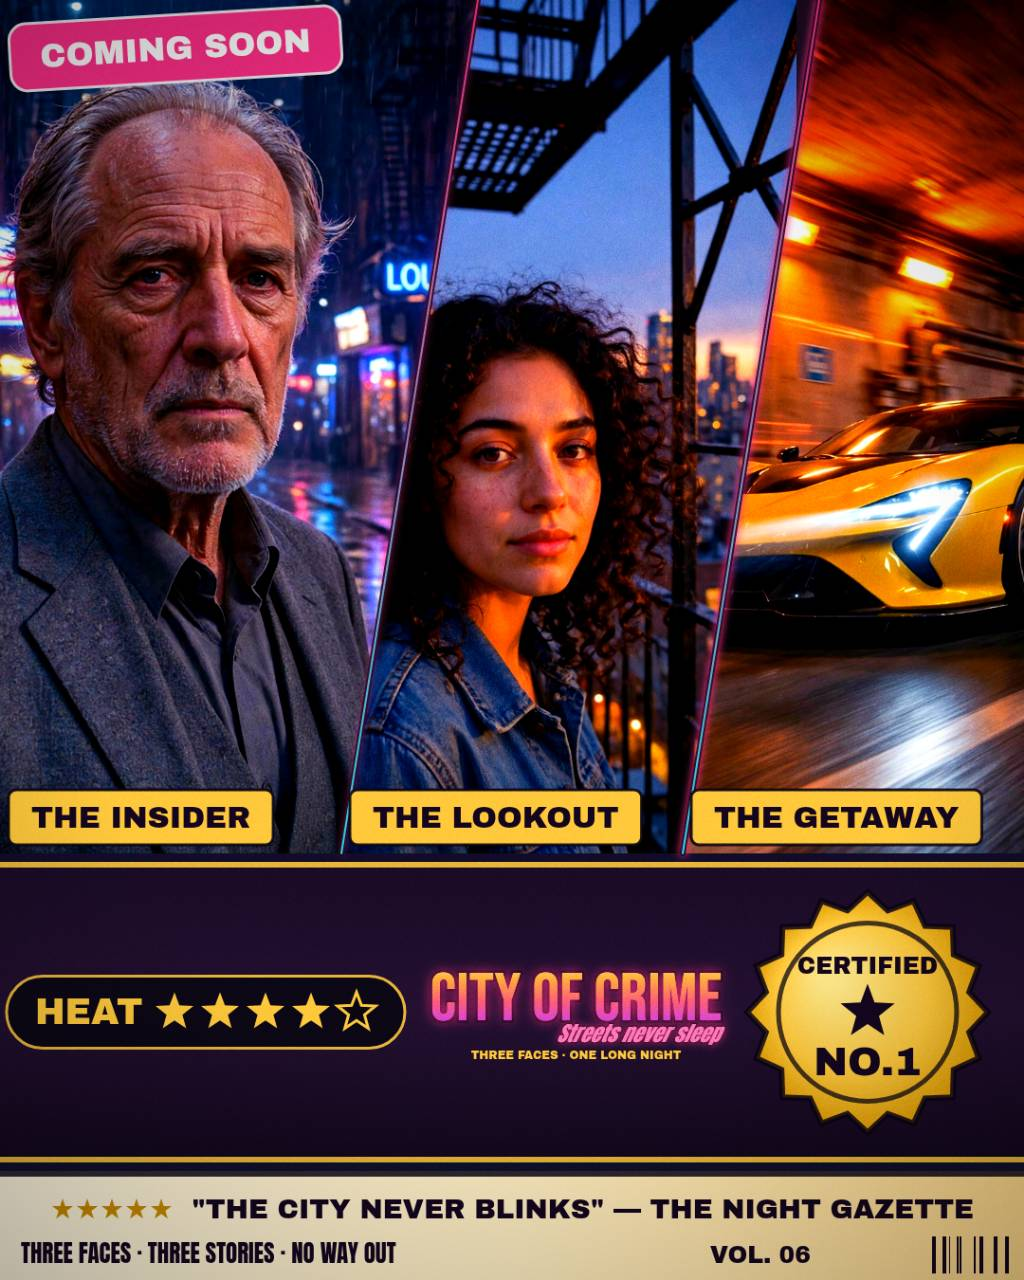
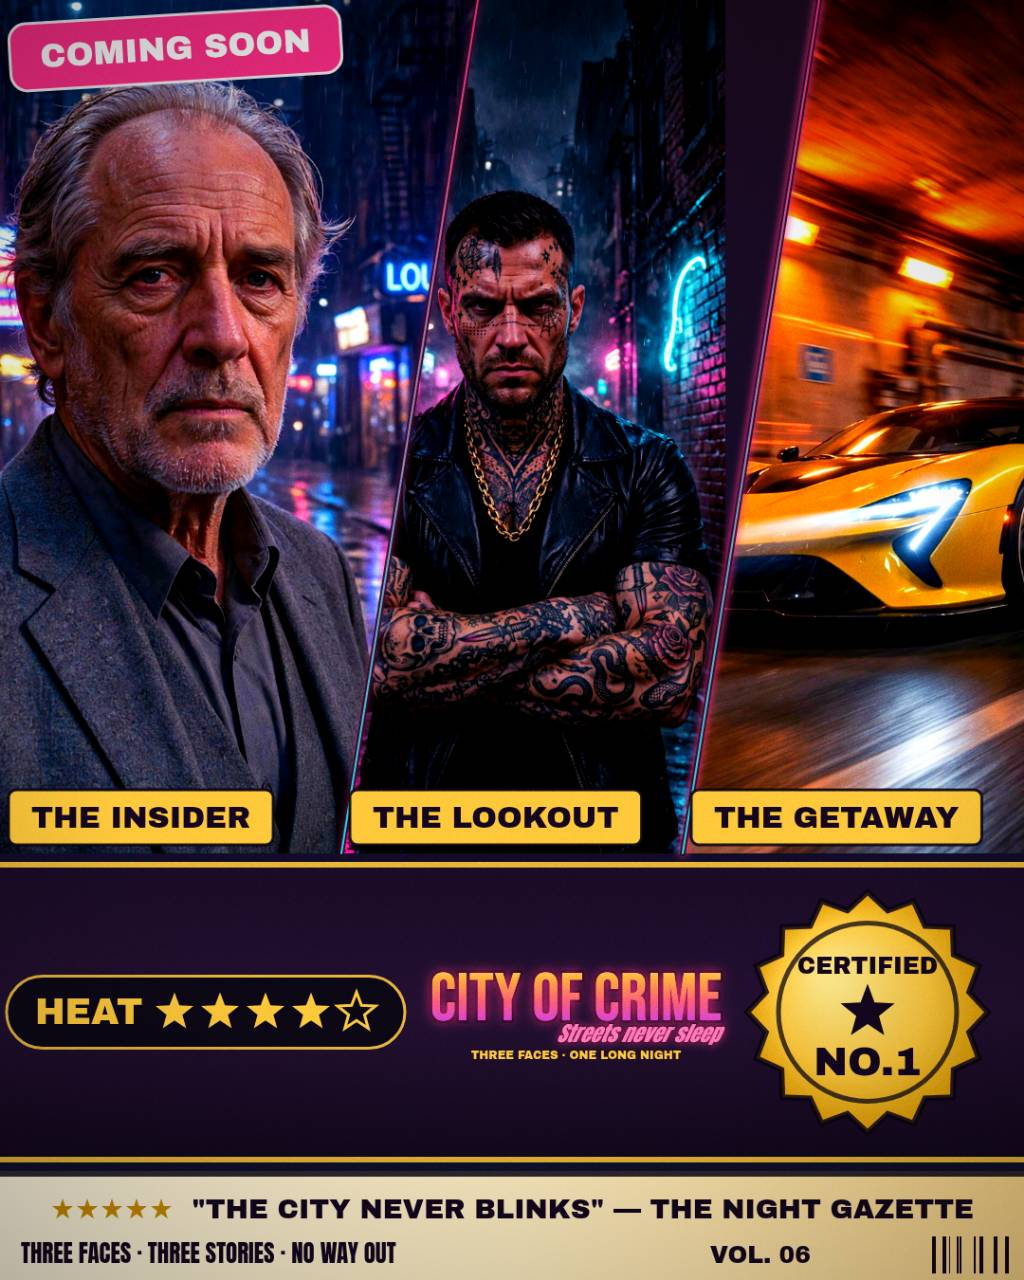
Rebuild r12: re-cast LOOKOUT as tattooed gangster, re-shoot AFTER DARK market + driver
CITY OF CRIME: THE LOOKOUT is now a menacing tattooed gangster man
(full sleeves, neck/face tattoos, leather jacket, gold chain, stern
stare in a rainy neon alley, face fully visible, pill low on jacket).
AFTER DARK: THE MARKET is now a high-energy neon boulevard car meet
(crowd, lowriders, confetti) and THE DRIVER is now a driver gripping
the wheel mid high-speed chase (neon streaks, face fully in frame) —
Sand called the r11 market/truck-woman panels 'terlalu lebay'.
Old keys dark-nightmarket/dark-truckwoman retired (files stay on disk,
unreferenced); new keys dark-street/dark-driver. VICE PURSUIT,
MIDNIGHT RUNNERS, editor UI, titles, HEAT 4/5 stars all unchanged.
All 4 screenshots re-rendered fresh in-session.

Changed region(s): [[0.3438, 0.0, 0.7812, 0.6875], [0.3438, 0.6562, 0.4688, 0.6875], [0.5, 0.6562, 0.5938, 0.6875]]

diff --git a/app/src/main.js b/app/src/main.js
@@ -295,12 +295,30 @@ export const SAMPLES = {
   'sunset-duo': { file: 'samples/media-generation-sunset-duo-0-7f9f1cb0-4aea-484d-91d5-b31bc29942f7.jpg', name: 'Sunset duo', label: 'Modern supercar + classic muscle car racing side by side at sunset' },
   // r11 — CITY OF CRIME (Diagonal trio)
   'crime-insider': { file: 'samples/media-generation-crime-insider-0-de10d04b-e4b4-4e49-9902-65951957155f.jpg', name: 'The insider', label: 'Rainy downtown alley at night — older man in a grey suit, neon bar signs, whole head in frame' },
-  'crime-lookout': { file: 'samples/media-generation-crime-lookout-0-e0d712e4-47b5-486c-81b0-6e588ddd9cb3.jpg', name: 'The lookout', label: 'Fire-escape balcony at dusk — young woman with dark curly hair, city skyline, whole head in frame' },
+  // r12 — THE LOOKOUT is re-cast: the r11 fire-escape lookout (young woman
+  // with curly hair) is replaced by a menacing tattooed gangster man —
+  // full tattoo sleeves, neck and face tattoos, leather jacket, gold
+  // chain, stern expression, dark neon alley in the rain. Portrait
+  // 1120×2240, face in the upper half with clear sky above the hair, so
+  // the whole head stays in frame and the THE LOOKOUT pill never covers
+  // it. The r11 file stays on disk, unreferenced.
+  'crime-lookout': { file: 'samples/media-generation-media-generation-crime-lookout-0-c1113d89-0c15-4907-9ca2-4c80dbdba162.webp', name: 'The lookout', label: 'Neon alley at night — tattooed gangster man, full sleeves, neck and face tattoos, leather jacket, gold chain, stern stare, whole face in frame' },
   'crime-tunnel': { file: 'samples/media-generation-crime-tunnel-0-dca6641c-b4a3-45a5-b95c-ec0acfb40b16.jpg', name: 'Tunnel chase', label: 'Yellow sports car speeding through a highway tunnel at night, motion blur' },
   // r11 — AFTER DARK (Hero + three)
   'dark-bluecoupe': { file: 'samples/media-generation-dark-bluecoupe-0-a4a5a0ea-2b42-404b-a8ba-e5cb69fe023f.jpg', name: 'Blue coupe', label: 'Deep blue coupe on a wet boulevard at night, palm silhouettes, neon reflections' },
-  'dark-nightmarket': { file: 'samples/media-generation-dark-nightmarket-0-982c22c9-49e1-484f-8486-56177e26d07a.jpg', name: 'Night market', label: 'Night market food stall — man grilling skewers, lanterns and neon' },
-  'dark-truckwoman': { file: 'samples/media-generation-dark-truckwoman-0-45807eeb-f347-4c0c-95dc-61d5a8760b91.jpg', name: 'Truck woman', label: 'Gas station at night — woman with short black hair in a leather jacket leaning on a vintage green pickup, whole head in frame' },
+  // r12 — AFTER DARK's two middle panels are re-shot: Sand called the r11
+  // night market and truck woman "terlalu lebay" (too over-the-top /
+  // stiff, posed), so both are replaced with live, exciting moments.
+  // THE MARKET is now a high-energy Vice City street party — a neon
+  // boulevard packed with a cheering crowd, lowriders and sports cars
+  // under pink neon, confetti in the air. THE DRIVER is now a dynamic
+  // action shot — a driver gripping the wheel mid high-speed chase at
+  // night, neon streaks blurring past the windows, face fully in frame.
+  // The r11 keys ('dark-nightmarket', 'dark-truckwoman') are retired;
+  // their files stay on disk, unreferenced. THE RIDE (blue coupe hero)
+  // and THE SKY (police helicopter) are untouched.
+  'dark-street': { file: 'samples/media-generation-media-generation-dark-street-r-0-821950e7-99a0-43b2-accf-3b05ac42262f.webp', name: 'Street party', label: 'Neon boulevard car meet at night — crowd cheering, lowriders and sports cars, pink neon, confetti, wet asphalt' },
+  'dark-driver': { file: 'samples/media-generation-media-generation-dark-driver-r-0-115eae96-35ed-4ee0-a9f4-e20f057cb49b.webp', name: 'Chase driver', label: 'Driver gripping the wheel mid high-speed chase at night — neon streaks past the windows, face fully in frame' },
   'dark-helicopter': { file: 'samples/media-generation-dark-helicopter-0-8dd4bdad-9982-4333-be07-049aa76316c4.jpg', name: 'Searchlight', label: 'Police helicopter searchlight sweeping over a suspension bridge at night' },
   // r11 — MIDNIGHT RUNNERS (Six grid)
   'runners-pickup': { file: 'samples/media-generation-runners-pickup-0-9fb9d3e3-4b89-4ba5-b077-ef1a159f86c1.jpg', name: 'Green pickup', label: 'Vintage green pickup on a desert highway at golden hour, dust trailing' },
@@ -310,16 +328,21 @@ export const SAMPLES = {
   'runners-speedboat': { file: 'samples/media-generation-runners-speedboat-0-ac12628a-24b0-4a52-8956-dd91a43ca3df.jpg', name: 'Speedboat', label: 'White speedboat racing across a bay at dusk, purple-orange sky' },
   'runners-skyline': { file: 'samples/media-generation-runners-skyline-0-6e685994-a9e8-47da-937e-80a46bc06e6c.jpg', name: 'The overlook', label: 'City skyline from a hilltop at blue hour, red sedan in the foreground' },
 };
-export const SAMPLE_ORDER = ['crime-insider', 'crime-lookout', 'crime-tunnel', 'dark-bluecoupe', 'dark-nightmarket', 'dark-truckwoman', 'dark-helicopter', 'runners-pickup', 'runners-diner', 'runners-motelbike', 'runners-skatewoman', 'runners-speedboat', 'runners-skyline', 'chase', 'driver-new', 'rain', 'canyon', 'everglades', 'strip', 'driver2', 'rooftop', 'palm-night', 'classic-muscle', 'coast', 'beach', 'pier', 'vintage-caddy', 'modern-sunset', 'sunset-duo', 'biker', 'garage', 'harbor', 'desert', 'neon'];
+export const SAMPLE_ORDER = ['crime-insider', 'crime-lookout', 'crime-tunnel', 'dark-bluecoupe', 'dark-street', 'dark-driver', 'dark-helicopter', 'runners-pickup', 'runners-diner', 'runners-motelbike', 'runners-skatewoman', 'runners-speedboat', 'runners-skyline', 'chase', 'driver-new', 'rain', 'canyon', 'everglades', 'strip', 'driver2', 'rooftop', 'palm-night', 'classic-muscle', 'coast', 'beach', 'pier', 'vintage-caddy', 'modern-sunset', 'sunset-duo', 'biker', 'garage', 'harbor', 'desert', 'neon'];
 
 /** Smart crops: per-scene focus offsets, so each sample lands with its
- *  hero in frame instead of a blind centre crop. The r11 portrait
- *  photos (lookout, truck woman, skater, diner, insider) are framed
- *  from mid-torso up with clear sky above the hair — their offsets pull
- *  the window UP (positive oy moves the photo down in its panel,
- *  showing more of the top), so the whole head stays in frame and is
- *  never cropped. The canyon and Everglades crops pull down hard to
- *  keep their low heroes in frame. */
+ *  hero in frame instead of a blind centre crop. The portrait photos
+ *  (lookout, skater, diner, insider) are framed from mid-torso up with
+ *  clear sky above the hair — their offsets pull the window UP (positive
+ *  oy moves the photo down in its panel, showing more of the top), so
+ *  the whole head stays in frame and is never cropped. The r12 lookout
+ *  is a tall portrait (1120×2240) with the face in the upper half, so
+ *  its +0.10 offset keeps the forehead and the gold chain in frame on
+ *  the short diagonal panel. The r12 driver is a wide chase shot framed
+ *  on the wheel and the face, so a small +0.04 keeps both in frame; the
+ *  r12 street party is a wide crowd scene that crops clean from the
+ *  centre. The canyon and Everglades crops pull down hard to keep
+ *  their low heroes in frame. */
 export const SMART_CROPS = {
   chase: { ox: 0, oy: -0.04 },
   neon: { ox: 0.06, oy: 0 },
@@ -346,8 +369,8 @@ export const SMART_CROPS = {
   'crime-lookout': { ox: 0, oy: 0.10 },
   'crime-tunnel': { ox: 0, oy: -0.02 },
   'dark-bluecoupe': { ox: 0, oy: -0.04 },
-  'dark-nightmarket': { ox: 0, oy: 0 },
-  'dark-truckwoman': { ox: 0, oy: 0.10 },
+  'dark-street': { ox: 0, oy: 0 },
+  'dark-driver': { ox: 0, oy: 0.04 },
   'dark-helicopter': { ox: 0, oy: -0.04 },
   'runners-pickup': { ox: 0, oy: -0.05 },
   'runners-diner': { ox: 0, oy: 0.08 },

diff --git a/app/src/cover.js b/app/src/cover.js
@@ -46,8 +46,8 @@ export const SIZES = {
 
 export const LAYOUTS = {
   sunset: { label: 'Sunset Chase', panels: 5, hint: 'Hero chase wide top-left, driver top-right, fixer / getaway / wildcard below' },
-  crime: { label: 'Diagonal trio', panels: 3, hint: 'Three diagonal panels — insider, lookout, getaway' },
-  dark: { label: 'Hero + three', panels: 4, hint: 'Blue coupe hero on top, market / truck / helicopter below' },
+  crime: { label: 'Diagonal trio', panels: 3, hint: 'Three diagonal panels — insider, tattooed lookout, getaway' },
+  dark: { label: 'Hero + three', panels: 4, hint: 'Blue coupe hero on top, street party / chase driver / helicopter below' },
   runners: { label: 'Six grid', panels: 6, hint: 'Two rows of three — pickup, diner, bike, skater, boat, skyline' },
   'hero-mosaic': { label: 'Hero mosaic', panels: 6, hint: 'One big hero panel left, five small panels stacked right' },
   'hero-three': { label: 'Hero + three', panels: 4, hint: 'One big hero panel on top, three small panels below' },
@@ -96,6 +96,15 @@ export const VARIANTS = {
     panels: ['chase', 'driver-new', 'rain', 'canyon', 'everglades'],
     strip: 'ONE COASTLINE · FIVE STORIES · NO CURFEW',
   },
+  // r12 — CITY OF CRIME re-cast: THE LOOKOUT is no longer the r11
+  // fire-escape lookout (young woman with curly hair). The middle panel
+  // is now the tattooed gangster man — full sleeves, neck and face
+  // tattoos, leather jacket, gold chain, stern stare in a rainy neon
+  // alley — a face the city would not forget. Same key
+  // ('crime-lookout'), same panel order, same title / script / tagline /
+  // HEAT ★★★★☆ / Diagonal trio layout: only the photograph changes.
+  // THE INSIDER (rainy alley, older man) and THE GETAWAY (yellow tunnel
+  // chase) are untouched r11 photos, reused by reference.
   crime: {
     label: 'City of Crime', layout: 'diagonal', grade: 'neon',
     title: 'CITY OF CRIME', script: 'Streets never sleep', tagline: 'THREE FACES · ONE LONG NIGHT',
@@ -103,11 +112,21 @@ export const VARIANTS = {
     panels: ['crime-insider', 'crime-lookout', 'crime-tunnel'],
     strip: 'THREE FACES · THREE STORIES · NO WAY OUT',
   },
+  // r12 — AFTER DARK re-shot: Sand called the r11 market and driver
+  // panels "terlalu lebay" (too over-the-top / stiff, posed portraits),
+  // so both middle panels are new live moments. THE MARKET is now a
+  // high-energy neon boulevard car meet — crowd, lowriders, sports cars,
+  // confetti ('dark-street'); THE DRIVER is now a driver gripping the
+  // wheel mid high-speed chase, neon streaking past ('dark-driver').
+  // The old keys ('dark-nightmarket', 'dark-truckwoman') are retired.
+  // Same title / script / tagline / HEAT ★★★★☆ / Hero + three layout
+  // and the same 4-photo count. THE RIDE (blue coupe hero) and THE SKY
+  // (police helicopter searchlight) are untouched r11 photos.
   dark: {
     label: 'After Dark', layout: 'hero-three', grade: 'ultraviolet',
     title: 'AFTER DARK', script: 'City of lights', tagline: 'FOUR NIGHTS · ONE CITY',
     quote: 'BRIGHTER AFTER MIDNIGHT', quoteSource: 'THE PALM GAZETTE',
-    panels: ['dark-bluecoupe', 'dark-nightmarket', 'dark-truckwoman', 'dark-helicopter'],
+    panels: ['dark-bluecoupe', 'dark-street', 'dark-driver', 'dark-helicopter'],
     strip: 'ONE CITY · FOUR STORIES · LIGHTS NEVER OFF',
   },
   runners: {
@@ -987,6 +1006,9 @@ function halftone(ctx, W, H, amount) {
 // One row per panel: the yellow role pill's text. V1 keeps its r10 roles
 // exactly. The three new variants get their own roles; the editor-only
 // layouts fall back to the generic list by panel index.
+// r12 keeps every role label: THE LOOKOUT now names the tattooed
+// gangster, THE MARKET names the neon street party, THE DRIVER names
+// the chase driver — same pills, new photographs underneath.
 const PANEL_META = {
   sunset: [
     { role: 'THE RIDE' }, { role: 'THE DRIVER' }, { role: 'THE FIXER' },
@@ -1020,7 +1042,9 @@ const GENERIC_ROLES = ['THE HERO', 'THE CREW', 'THE RIDE', 'THE NIGHT', 'THE CIT
 
 /** Yellow role pills for each panel: bottom-left, exactly like the
  *  reference. The pill is small and low: on the DRIVER panels it sits
- *  over her jacket, never over her face. */
+ *  over the jacket / dashboard, never over a face; on the r12 LOOKOUT
+ *  panel it sits over the leather jacket at the bottom of the frame,
+ *  well below the gangster's chin, so his face stays fully clear. */
 function drawPanelFurniture(ctx, state, panels, W, H) {
   panels.forEach((panel, i) => {
     if (panel.w < W * 0.15 || panel.h < H * 0.12) return;

diff --git a/main.ts b/main.ts
@@ -1,4 +1,8 @@
-// SUNREEL — poster cover studio (rebuild r11, entry program, Node 22 stdlib only).
+// SUNREEL — poster cover studio (rebuild r12, entry program, Node 22 stdlib only).
+//
+// r12: three photo swaps only — CITY OF CRIME's LOOKOUT is re-cast as a
+// tattooed gangster man, AFTER DARK's MARKET and DRIVER are re-shot as
+// a neon street party and a mid-chase driver. Everything else is r11.
 //
 // The app is this directory's app/ folder: plain static files a desktop
 // browser loads offline (app/index.html and its ES modules, no library, no
@@ -18,7 +22,7 @@
 // at 1080×1080, 1080×1350 and 1920×1080. The big wanted-stars pill is
 // OFF by default on every variant — it does not exist in the reference,
 // and the HEAT pill reads ★★★★☆ (four filled, one empty) with five
-// small stars on the quote strip only. Its thirty-four sample photos
+// small stars on the quote strip only. Its thirty-seven sample photos
 // (app/samples/) are real photographs made in this session — V1's five
 // (the sunny palm boulevard chase with orange supercar + sport bike and
 // police behind, the neon night driver, the rainy downtown fixer, the
@@ -27,8 +31,11 @@
 // a yellow tunnel chase, a blue coupe on a wet boulevard, a night
 // market, a truck woman at a gas station, a police helicopter
 // searchlight, a vintage green pickup, a drive-in diner, a motel bike,
-// a skater at sunset, a speedboat at dusk and a skyline overlook) and
-// the sixteen older samples.
+// a skater at sunset, a speedboat at dusk and a skyline overlook) plus
+// the three r12 replacements (a tattooed gangster lookout in a neon
+// alley, a chase driver gripping the wheel mid high-speed chase, a neon
+// boulevard street party with lowriders) and the sixteen older samples.
+// The three r11 photos the r12 shots replace stay on disk, unreferenced.
 //
 // Serve it locally with `node serve.ts`, then open http://localhost:8080.
 // Outside the grader's container, MAKEFUN_OUTPUT_DIR stands in for /output:

diff --git a/app/src/shots.js b/app/src/shots.js
@@ -1,4 +1,12 @@
-// SUNREEL — deterministic screenshot states (rebuild r11, poster studio edition).
+// SUNREEL — deterministic screenshot states (rebuild r12, poster studio edition).
+//
+// r12: the same four shots as r11, re-rendered fresh. Shot 3 (CITY OF
+// CRIME portrait) now shows the re-cast LOOKOUT — the tattooed gangster
+// man in the neon alley. Shot 4 (AFTER DARK square) now shows the two
+// re-shot middle panels — the neon street party (THE MARKET) and the
+// chase driver (THE DRIVER). Shots 1 (VICE PURSUIT) and 2 (editor with
+// MIDNIGHT RUNNERS) are unchanged in content and re-rendered from the
+// same states.
 //
 // ?shot=cover   the cover alone, full-bleed: the app renders the PNG it
 //               would export at full resolution, shows that PNG, and sets
@@ -19,6 +27,13 @@
 // viewport (1440×1000) so the left, centre and right columns all fit in
 // one frame. The big wanted-stars pill defaults to OFF on every variant
 // — no shot passes &stars= any more.
+//
+// r12: the same four shots, re-rendered fresh in-session. The crime
+// shot's middle panel is the new tattooed gangster LOOKOUT (tall
+// portrait photo, +0.10 smart crop keeps the whole face in frame); the
+// dark shot's middle panels are the new street party and chase driver
+// (wide photos, centre / +0.04 crops). Nothing else about the shots
+// changes — same variants, grades, sizes, captions and panel counts.
 
 import { SIZES, renderCover, loadImage, fontsReady, VARIANTS } from './cover.js';
 import { bootEditor, applyParams, loadSamples, state, SAMPLES, SMART_CROPS } from './main.js';

diff --git a/README.md b/README.md
@@ -8,7 +8,7 @@ Turn your photos and a caption into a GTA-style multi-panel magazine cover — i
 
 ## What it does
 
-- **4 cover variants, one switcher** — VICE PURSUIT (Sunset Chase, the approved r10 cover, unchanged: sunny chase hero, neon driver, rainy fixer, canyon getaway, Everglades wildcard), CITY OF CRIME (Diagonal trio: rainy insider, fire-escape lookout, yellow tunnel chase), AFTER DARK (Hero + three: blue coupe hero, night market, truck woman, police helicopter), and MIDNIGHT RUNNERS (Six grid: green pickup, diner, motel bike, skater, speedboat, skyline). Each variant has its own title, script, tagline, quote, grade and strip line — story counts match panel counts (FIVE / THREE / FOUR / SIX STORIES). Switching a variant swaps everything in one click; the HEAT pill reads ★★★★☆ and the big wanted-stars pill stays off.
+- **4 cover variants, one switcher** — VICE PURSUIT (Sunset Chase, the approved r10 cover, unchanged: sunny chase hero, neon driver, rainy fixer, canyon getaway, Everglades wildcard), CITY OF CRIME (Diagonal trio: rainy insider, tattooed gangster lookout — r12 re-cast, yellow tunnel chase), AFTER DARK (Hero + three: blue coupe hero, neon street party, chase driver — r12 re-shoots, police helicopter), and MIDNIGHT RUNNERS (Six grid: green pickup, diner, motel bike, skater, speedboat, skyline). Each variant has its own title, script, tagline, quote, grade and strip line — story counts match panel counts (FIVE / THREE / FOUR / SIX STORIES). Switching a variant swaps everything in one click; the HEAT pill reads ★★★★☆ and the big wanted-stars pill stays off.
 - **SUNREEL studio UI** — top bar with the SUNREEL logo, steps 1 Add photos → 2 Caption → 3 Export PNG, and Undo/Redo. Left: Add photos (+ Add photos, or drop · paste, photo thumbnail grid, Auto layout, Surprise me), five layouts (Hero mosaic, Hero + three, Six grid, Diagonal trio, Seven mosaic), six grades (Sunset, Neon night, Golden hour, Tropic teal, Heatwave, Ultraviolet), and Caption (Title / Script / Tagline, live). Centre: aspect-ratio switcher (1:1, 4:5, 16:9) and the cover preview. Right: Export PNG (1080×1080, 1080×1350, 1920×1080, Export all three), panel controls (Zoom, Photo prev/next, Reset, Flip, Swap, Face, Name tag), and LOOK & TITLE sliders (Paint, Grade, Halftone, Grain, Glow). Every control is real: layout switching rearranges the grid, grade switching re-grades the cover, caption fields edit the title live, the variant switcher swaps the whole cover.
 - **Any photo, any panel** — add photos from your device, drag-drop onto a panel, or load the built-in samples. One photo can fill all panels with different smart crops; each panel gets its own drag-to-position, zoom slider, flip, swap and face framing, plus per-panel replace and clear.
 - **Magazine furniture** — a giant gradient headline (orange → pink → purple, like a magazine masthead) with a pink script sub-caption and a gold tagline line, all inside their own dark band between the panels (never painted over a photo), role tags (THE INSIDER, THE LOOKOUT…), a HEAT ★★★★☆ badge (four filled stars, one empty — exactly like HEATWAVE), a gold CERTIFIED NO.1 seal, a COMING SOON corner badge, a newspaper quote ("HOTTER THAN THE ASPHALT" — THE PALM GAZETTE, all five small stars kept), and a bottom billing strip with VOL. 06 and a barcode. Every piece toggles on and off. No big five-star wanted pill anywhere.
@@ -33,8 +33,8 @@ A magazine cover, not a single-photo filter: the hero photo stays bright on top 
 
 - `1-cover.jpg` — V1 VICE PURSUIT full cover (landscape 1920×1080, Sunset Chase, Golden Hour) — re-rendered fresh in the r11 session from the unchanged r10 cover, so it matches r10's cover exactly
 - `2-editor.jpg` — the SUNREEL editor with the MIDNIGHT RUNNERS variant loaded (Six grid) — left panel (Add photos + layouts + grades + caption), centre preview, right panel (Export PNG + panel controls + LOOK & TITLE sliders), steps on top
-- `3-cover-portrait.jpg` — CITY OF CRIME cover (portrait 1080×1350, Diagonal trio, Neon night) — rainy insider, fire-escape lookout, yellow tunnel chase
-- `4-cover-square.jpg` — AFTER DARK cover (square 1080×1080, Hero + three, Ultraviolet) — blue coupe hero, night market, truck woman, police helicopter
+- `3-cover-portrait.jpg` — CITY OF CRIME cover (portrait 1080×1350, Diagonal trio, Neon night) — rainy insider, tattooed gangster lookout (r12 re-cast), yellow tunnel chase
+- `4-cover-square.jpg` — AFTER DARK cover (square 1080×1080, Hero + three, Ultraviolet) — blue coupe hero, neon street party, chase driver, police helicopter (r12 re-shoots for the two middle panels)
 
 The covers are the PNGs the app itself wrote, scaled to JPEG for size. `shots.json` lists the deterministic `?shot=` URLs that produce them; `tools/shot.mjs` takes them with headless Chrome.
 
@@ -45,7 +45,7 @@ The covers are the PNGs the app itself wrote, scaled to JPEG for size. `shots.js
 - `app/src/main.js` — editor state, controls, drag-drop, per-panel zoom/pan/flip/swap/face, variant switcher, auto layout, surprise me, undo/redo, export (one size or all three)
 - `app/src/shots.js` — deterministic `?shot=cover` / `?shot=editor` states
 - `app/fonts/` — Bebas Neue, Anton, Archivo Black (SIL Open Font License, OFL.txt beside each)
-- `app/samples/` — thirty-four photographs made in this session, one distinct hero and one distinct atmosphere/weather each: V1's five (sunny palm-boulevard chase with orange supercar + sport bike and police behind, neon night driver, rainy downtown fixer, desert canyon sunset getaway, Everglades dusk wildcard) plus the thirteen r11 additions (rainy insider, fire-escape lookout, yellow tunnel chase, blue coupe on a wet boulevard, night market, truck woman at a gas station, police helicopter searchlight, vintage green pickup on a desert highway, drive-in diner at dusk, motel bike, skater at sunset, speedboat at dusk, skyline overlook) and the sixteen older samples
+- `app/samples/` — thirty-seven photographs made in this session, one distinct hero and one distinct atmosphere/weather each: V1's five (sunny palm-boulevard chase with orange supercar + sport bike and police behind, neon night driver, rainy downtown fixer, desert canyon sunset getaway, Everglades dusk wildcard) plus the thirteen r11 additions (rainy insider, fire-escape lookout, yellow tunnel chase, blue coupe on a wet boulevard, night market, truck woman at a gas station, police helicopter searchlight, vintage green pickup on a desert highway, drive-in diner at dusk, motel bike, skater at sunset, speedboat at dusk, skyline overlook) plus the three r12 replacements (tattooed gangster lookout in a neon alley, chase driver gripping the wheel mid high-speed chase, neon boulevard street party with lowriders) and the sixteen older samples. The three r11 photos the r12 shots replace (fire-escape lookout, night market, truck woman) stay on disk unreferenced.
 - `main.ts` — hands app/ + screenshots/ to /output with dossier.json (Node 22 stdlib only)
 - `serve.ts` — tiny static server for local tries
 - `tools/shot.mjs` — deterministic screenshot runner (headless Chrome over CDP)
@@ -60,3 +60,7 @@ The covers are the PNGs the app itself wrote, scaled to JPEG for size. `shots.js
 ## Rebuild r11
 
 V1 (VICE PURSUIT / Sunset Chase) is the r10 cover Sand approved, unchanged — same five photographs, same grid, same grade. The r11 work adds the SUNREEL studio UI and three new variants (CITY OF CRIME, AFTER DARK, MIDNIGHT RUNNERS) with thirteen all-new photographs, five SUNREEL layouts, six grades, and the tagline + Glow controls. Exactly four screenshots ship with this entry.
+
+## Rebuild r12
+
+Three photo swaps, everything else exactly as r11. CITY OF CRIME: THE LOOKOUT is re-cast — the fire-escape lookout is out, a menacing tattooed gangster man is in (full tattoo sleeves, neck and face tattoos, leather jacket, gold chain, stern stare, rainy neon alley; face fully visible, THE LOOKOUT pill sits low on his jacket, never over his face). AFTER DARK: Sand called the night market and truck woman "terlalu lebay", so both middle panels are re-shot as live moments — THE MARKET is now a high-energy neon boulevard car meet (crowd, lowriders, sports cars, confetti) and THE DRIVER is now a driver gripping the wheel mid high-speed chase (neon streaking past, face fully in frame). The blue coupe hero and the police helicopter are untouched, as are VICE PURSUIT, MIDNIGHT RUNNERS, the SUNREEL editor UI, titles, scripts, taglines, HEAT ★★★★☆ and the layouts. All four screenshots were re-rendered fresh in the r12 session from the same deterministic `?shot=` URLs.
